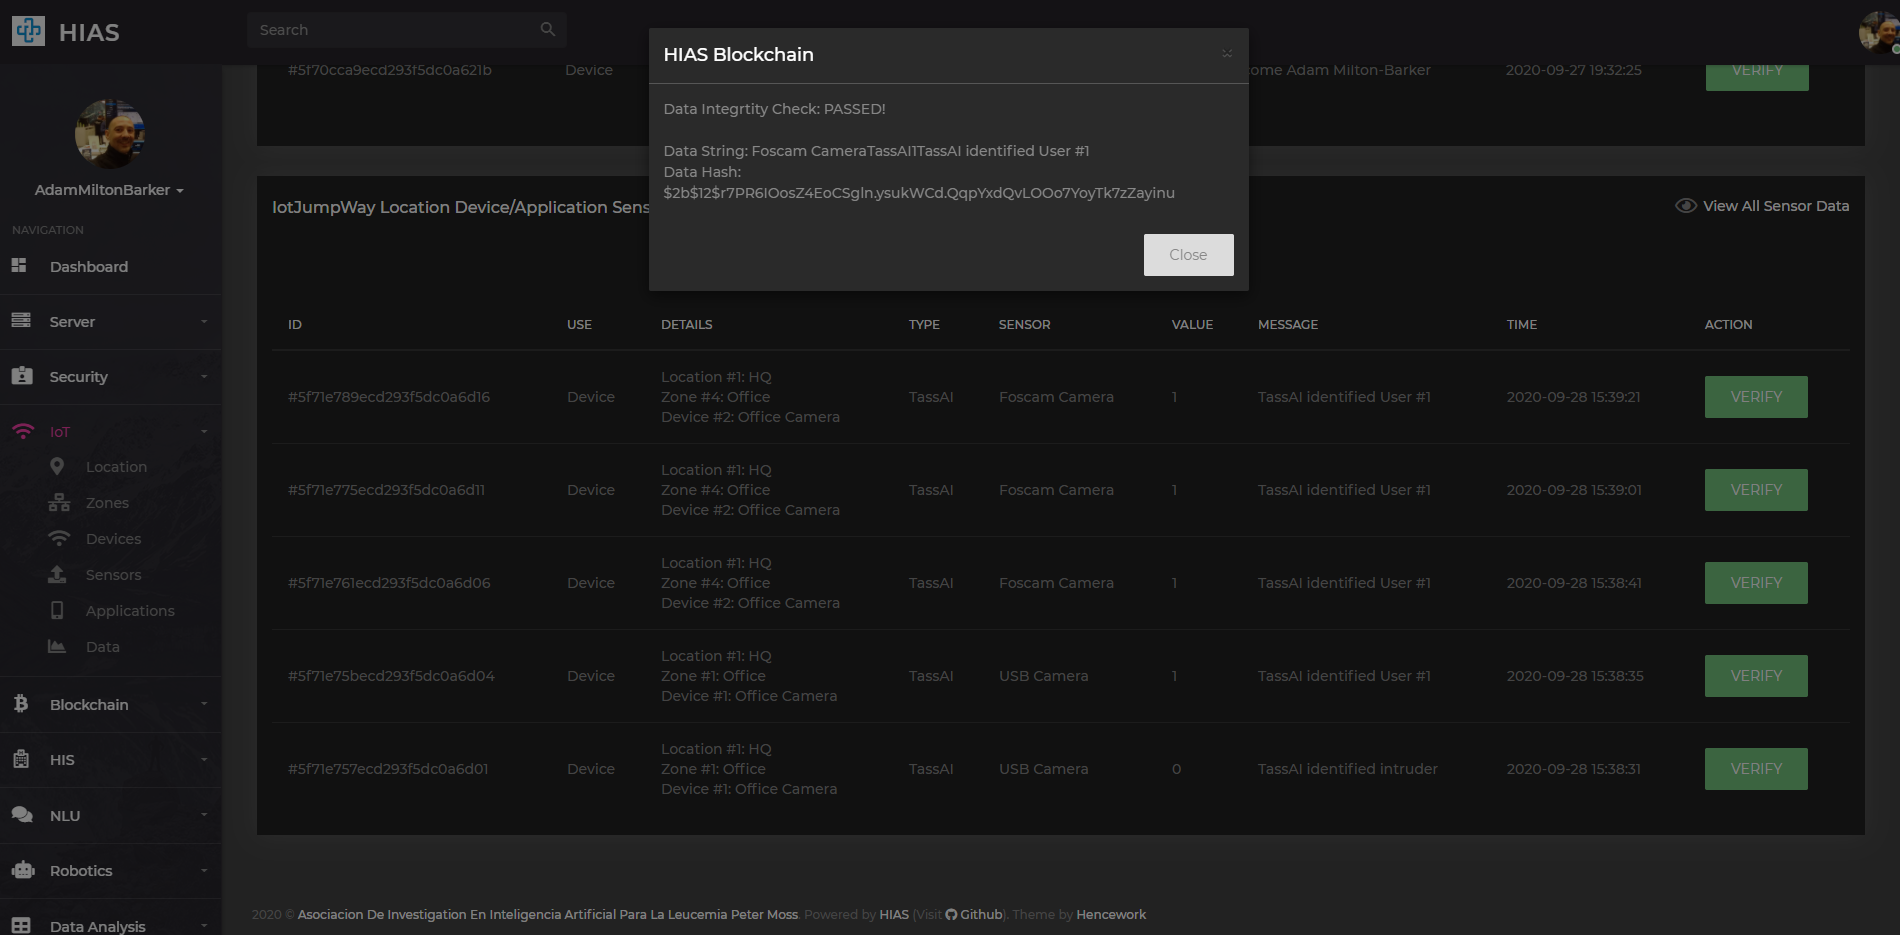
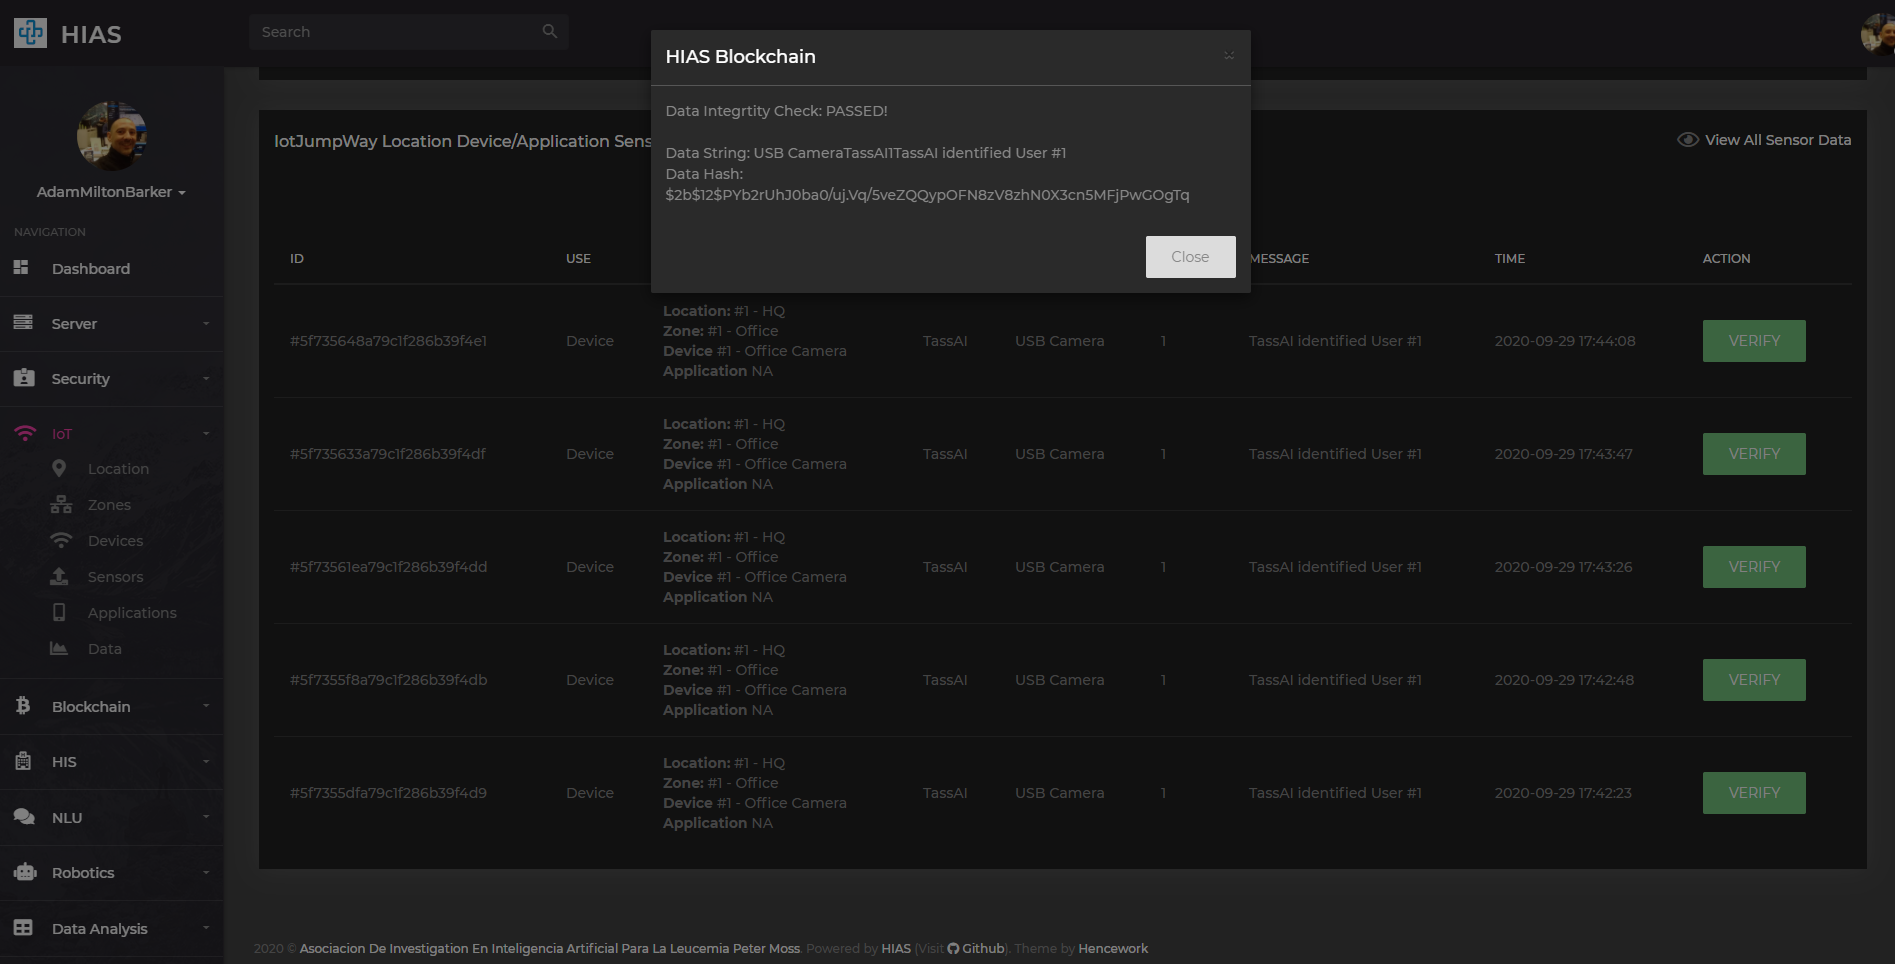
0.0.0 NCS1 USB updates

diff --git a/UP2/NCS1/USBCam/Classes/CamRead.py b/UP2/NCS1/USBCam/Classes/CamRead.py
@@ -62,6 +62,8 @@ class CamRead(Thread):
 		time1 = 0
 		time2 = 0
 
+		self.publishes = [None] * (len(self.TassAI.NCS1.encoded) + 1)
+
 		while True:
 			time.sleep(0.05)
 			try:
@@ -100,13 +102,26 @@ class CamRead(Thread):
 						else:
 							mesg = "TassAI identified intruder"
 
-						# Send iotJumpWay notification
-						self.iot.channelPub("Sensors", {
-							"Type": "TassAI",
-							"Sensor": "Foscam Camera",
-							"Value": known,
-							"Message": mesg
-						})
+						# If iotJumpWay publish for user is in past
+						if (self.publishes[int(known)] is None or (self.publishes[int(known)] + (1 * 20)) < time.time()):
+							# Update publish time for user
+							self.publishes[int(known)] = time.time()
+
+							# Send iotJumpWay notification
+							self.iot.channelPub("Sensors", {
+								"Type": "TassAI",
+								"Sensor": "USB Camera",
+								"Value": known,
+								"Message": mesg
+							})
+
+							# Send iotJumpWay notification
+							self.iot.channelPub("Cameras", {
+								"Type": "TassAI",
+								"Sensor": "USB Camera",
+								"Value": known,
+								"Message": mesg
+							})
 
 						# Draws facial landmarks
 						for (x, y) in coordsi:

diff --git a/UP2/NCS1/USBCam/Classes/TassAI.py b/UP2/NCS1/USBCam/Classes/TassAI.py
@@ -1,16 +1,17 @@
-############################################################################################
+######################################################################################################
 #
-# Repository:    HIAS TassAI
-# Project:       NCS1 USB Camera Security System
+# Organization:  Asociacion De Investigacion En Inteligencia Artificial Para La Leucemia Peter Moss
+# Project:       UP2 NCS1 Facial Recognition USB Security System
 #
 # Author:        Adam Milton-Barker (AdamMiltonBarker.com)
+#
 
 # Title:         TassAI Class
 # Description:   TassAI NCS1 USB Camera Security System class.
 # License:       MIT License
-# Last Modified: 2020-08-27
+# Last Modified: 2020-09-28
 #
-############################################################################################
+######################################################################################################
 
 import cv2
 
@@ -43,8 +44,6 @@ class TassAI():
 		""" Connects to the USB camera. """
 
 		self.camera = OpenCV(self.Helpers.confs["Camera"]["Id"])
-
-		self.Helpers.logger.info("Connected To Camera")
 
 	def ncs(self):
 		""" Configures NCS1. """

diff --git a/UP2/NCS1/USBCam/Classes/OpenCV.py b/UP2/NCS1/USBCam/Classes/OpenCV.py
@@ -47,7 +47,7 @@ class OpenCV():
 
 		self.Helpers.logger.info("Connecting to USB camera.")
 		cap = cv2.VideoCapture(stream)
-		self.Helpers.logger.info("Connected to Foscam.")
+		self.Helpers.logger.info("Connected to USB Camera.")
 		run = True
 
 		while run:

diff --git a/UP2/NCS1/USBCam/README.md b/UP2/NCS1/USBCam/README.md
@@ -152,16 +152,16 @@ Using the ls command in your home directory should show you the following.
   TassAI
 ```
 
-Navigate to **TassAI/UP2/NCS1/Standard/USBCam** directory, this is your project root directory for this tutorial.
+Navigate to **TassAI/UP2/NCS1/USBCam** directory, this is your project root directory for this tutorial.
 
 ### Developer Forks
 Developers from the Github community that would like to contribute to the development of this project should first create a fork, and clone that repository. For detailed information please view the [CONTRIBUTING](../../../CONTRIBUTING.md "CONTRIBUTING") guide. You should pull the latest code from the development branch.
 
 ```
-  git clone -b "0.2.0" https://github.com/LeukemiaAiResearch/TassAI.git
+  git clone -b "0.1.0" https://github.com/LeukemiaAiResearch/TassAI.git
 ```
 
-The **-b "0.2.0"** parameter ensures you get the code from the latest master branch. Before using the below command please check our latest master branch in the button at the top of the project README.
+The **-b "0.1.0"** parameter ensures you get the code from the latest master branch. Before using the below command please check our latest master branch in the button at the top of the project README.
 
 ## Install Dependencies
 Now you will install the required dependencies. [Setup.sh](Setup.sh "Setup.sh")is an executable shell script that will do the following:
@@ -261,42 +261,75 @@ To make sure that your server is responding correctly use the following command:
 You should see the following output:
 
 ```
-2020-09-28 12:57:25,783 - Camera - INFO - Helpers class initialization complete.
-2020-09-28 12:57:25,784 - iotJumpWay - INFO - Helpers class initialization complete.
-2020-09-28 12:57:25,784 - iotJumpWay - INFO - Initiating Local iotJumpWay Device.
-2020-09-28 12:57:25,785 - iotJumpWay - INFO - JumpWayMQTT Device Initiated.
-2020-09-28 12:57:25,785 - iotJumpWay - INFO - Initiating Local iotJumpWay Device Connection.
-2020-09-28 12:57:25,811 - iotJumpWay - INFO - Local iotJumpWay Device Connection Initiated.
-2020-09-28 12:57:25,813 - Sockets - INFO - Helpers class initialization complete.
-2020-09-28 12:57:25,813 - Sockets - INFO - Socket Helper Class initialization complete.
-2020-09-28 12:57:25,814 - Camera - INFO - Camera Class initialization complete.
-2020-09-28 12:57:25,818 - Sockets - INFO - Subscribed to socket: tcp://localhost:8181
-2020-09-28 12:57:25,820 - TassAI - INFO - Helpers class initialization complete.
-2020-09-28 12:57:25,824 - TassAI - INFO - TassAI class initialized.
-2020-09-28 12:57:25,824 - Camera - INFO - Camera server started on ###.###.#.##:8080
-2020-09-28 12:57:25,826 - OpenCV - INFO - Helpers class initialization complete.
-2020-09-28 12:57:25,834 - OpenCV - INFO - OpenCV class initialized.
-2020-09-28 12:57:25,835 - TassAI - INFO - Connected To Camera
-2020-09-28 12:57:25,836 - TassAI - INFO - Loading the model from '/home/up2b/TassAI/UP2/NCS1/Camera/Model/face-detection-retail-0004.xml'
-2020-09-28 12:57:25,836 - OpenCV - INFO - Connecting to Camera.
-2020-09-28 12:57:25,858 - TassAI - INFO - Model loaded
-2020-09-28 12:57:25,869 - iotJumpWay - INFO - Local iotJumpWay Device Connection Successful.
-2020-09-28 12:57:25,868 - TassAI - INFO - Loading the model from '/home/up2b/TassAI/UP2/NCS1/Camera/Model/landmarks-regression-retail-0009.xml'
-2020-09-28 12:57:25,870 - iotJumpWay - INFO - rc: 0
-2020-09-28 12:57:25,884 - TassAI - INFO - Model loaded
-2020-09-28 12:57:25,884 - iotJumpWay - INFO - Published to Device Status 1/Devices/4/2/Status
-2020-09-28 12:57:25,885 - TassAI - INFO - Loading the model from '/home/up2b/TassAI/UP2/NCS1/Camera/Model/face-reidentification-retail-0095.xml'
-2020-09-28 12:57:25,886 - iotJumpWay - INFO - -- Published to Device channel
-2020-09-28 12:57:25,955 - TassAI - INFO - Model loaded
-2020-09-28 12:57:27,384 - TassAI - INFO - Models loaded
-WARNING:root:File with the same name already exists at /home/up2b/TassAI/UP2/NCS1/Camera/Model/Data/Known. So it won't be stored.
-WARNING:root:Not found faces on the image '/home/up2b/TassAI/UP2/NCS1/Camera/Model/Data/Known/1-0.jpg'
-2020-09-28 12:57:27,798 - TassAI - INFO - Database is built, registered 1 identities
-INFO:TassAI:Database is built, registered 1 identities
-2020-09-28 12:57:27,799 - Sockets - INFO - Started & connected to socket server: tcp://localhost:8181
-INFO:Sockets:Started & connected to socket server: tcp://localhost:8181
-2020-09-28 12:57:29,926 - OpenCV - INFO - Connected to Camera.
-
+2020-09-29 15:04:24,954 - Camera - INFO - Helpers class initialization complete.
+2020-09-29 15:04:24,955 - iotJumpWay - INFO - Helpers class initialization complete.
+2020-09-29 15:04:24,955 - iotJumpWay - INFO - Initiating Local iotJumpWay Device.
+2020-09-29 15:04:24,956 - iotJumpWay - INFO - JumpWayMQTT Device Initiated.
+2020-09-29 15:04:24,956 - iotJumpWay - INFO - Initiating Local iotJumpWay Device Connection.
+2020-09-29 15:04:24,996 - iotJumpWay - INFO - Local iotJumpWay Device Connection Initiated.
+2020-09-29 15:04:24,998 - iotJumpWay - INFO - -- Subscribed to Device Commands Channel
+2020-09-29 15:04:25,000 - Sockets - INFO - Helpers class initialization complete.
+2020-09-29 15:04:25,001 - Sockets - INFO - Socket Helper Class initialization complete.
+2020-09-29 15:04:25,001 - Camera - INFO - Camera Class initialization complete.
+2020-09-29 15:04:25,005 - Sockets - INFO - Subscribed to socket: tcp://localhost:8181
+2020-09-29 15:04:25,007 - iotJumpWay - INFO - Local iotJumpWay Device Connection Successful.
+2020-09-29 15:04:25,008 - TassAI - INFO - Helpers class initialization complete.
+2020-09-29 15:04:25,007 - iotJumpWay - INFO - rc: 0
+2020-09-29 15:04:25,010 - iotJumpWay - INFO - Published to Device Status 1/Devices/1/1/Status
+2020-09-29 15:04:25,009 - TassAI - INFO - TassAI class initialized.
+2020-09-29 15:04:25,011 - iotJumpWay - INFO - -- Published to Device channel
+2020-09-29 15:04:25,011 - Camera - INFO - Camera server started on ###.###.#.##:8080
+2020-09-29 15:04:25,013 - OpenCV - INFO - Helpers class initialization complete.
+2020-09-29 15:04:25,016 - iotJumpWay - INFO - JumpWayMQTT Subscription: 1
+2020-09-29 15:04:25,023 - OpenCV - INFO - OpenCV class initialized.
+2020-09-29 15:04:25,024 - OpenCV - INFO - Connecting to USB camera.
+2020-09-29 15:04:25,026 - NCS1 - INFO - Helpers class initialization complete.
+2020-09-29 15:04:25,368 - OpenCV - INFO - Connected to Camera.
+2020-09-29 15:04:28,828 - NCS1 - INFO - Connected to Neural Compute Stick 1
+2020-09-29 15:04:28,871 - NCS1 - INFO - Loaded NCS1 graph
+2020-09-29 15:04:29,187 - NCS1 - INFO - Known data preprocessed!
+2020-09-29 15:04:29,187 - NCS1 - INFO - NCS1 class initialized.
+2020-09-29 15:04:29,188 - TassAI - INFO - NCS1 configured.
+2020-09-29 15:04:29,189 - Sockets - INFO - Started & connected to socket server: tcp://localhost:8181
+2020-09-29 15:04:32,668 - NCS1 - INFO - Calculated Match: 0.6489086151123047
+2020-09-29 15:04:32,815 - NCS1 - INFO - TassAI identified User #1
+2020-09-29 15:04:32,816 - iotJumpWay - INFO - -- Published to Device channel
+2020-09-29 15:04:33,206 - NCS1 - INFO - Calculated Match: 0.6780565977096558
+2020-09-29 15:04:33,207 - NCS1 - INFO - TassAI identified User #1
+2020-09-29 15:04:33,210 - iotJumpWay - INFO - -- Published to Device channel
+2020-09-29 15:04:33,605 - NCS1 - INFO - Calculated Match: 0.7129222750663757
+2020-09-29 15:04:33,605 - NCS1 - INFO - TassAI identified User #1
+2020-09-29 15:04:33,606 - iotJumpWay - INFO - -- Published to Device channel
+2020-09-29 15:04:33,999 - NCS1 - INFO - Calculated Match: 0.698941707611084
+2020-09-29 15:04:33,999 - NCS1 - INFO - TassAI identified User #1
+2020-09-29 15:04:34,000 - iotJumpWay - INFO - -- Published to Device channel
+2020-09-29 15:04:34,393 - NCS1 - INFO - Calculated Match: 0.6882005929946899
+2020-09-29 15:04:34,394 - NCS1 - INFO - TassAI identified User #1
+2020-09-29 15:04:34,395 - iotJumpWay - INFO - -- Published to Device channel
+2020-09-29 15:04:34,788 - NCS1 - INFO - Calculated Match: 0.7014083862304688
+2020-09-29 15:04:34,789 - NCS1 - INFO - TassAI identified User #1
+2020-09-29 15:04:34,789 - iotJumpWay - INFO - -- Published to Device channel
+2020-09-29 15:04:35,186 - NCS1 - INFO - Calculated Match: 0.7462751865386963
+2020-09-29 15:04:35,187 - NCS1 - INFO - TassAI identified User #1
+2020-09-29 15:04:35,188 - iotJumpWay - INFO - -- Published to Device channel
+2020-09-29 15:04:35,581 - NCS1 - INFO - Calculated Match: 0.7502866387367249
+2020-09-29 15:04:35,582 - NCS1 - INFO - TassAI identified User #1
+2020-09-29 15:04:35,583 - iotJumpWay - INFO - -- Published to Device channel
+2020-09-29 15:04:35,976 - NCS1 - INFO - Calculated Match: 0.7378405928611755
+2020-09-29 15:04:35,977 - NCS1 - INFO - TassAI identified User #1
+2020-09-29 15:04:35,978 - iotJumpWay - INFO - -- Published to Device channel
+2020-09-29 15:04:36,370 - NCS1 - INFO - Calculated Match: 0.7412561774253845
+2020-09-29 15:04:36,370 - NCS1 - INFO - TassAI identified User #1
+2020-09-29 15:04:36,371 - iotJumpWay - INFO - -- Published to Device channel
+2020-09-29 15:04:36,764 - NCS1 - INFO - Calculated Match: 0.6631295680999756
+2020-09-29 15:04:36,765 - NCS1 - INFO - TassAI identified User #1
+2020-09-29 15:04:36,766 - iotJumpWay - INFO - -- Published to Device channel
+2020-09-29 15:04:37,158 - NCS1 - INFO - Calculated Match: 0.7121732234954834
+2020-09-29 15:04:37,158 - NCS1 - INFO - TassAI identified User #1
+2020-09-29 15:04:37,159 - iotJumpWay - INFO - -- Published to Device channel
+2020-09-29 15:04:37,552 - NCS1 - INFO - Calculated Match: 0.7222686409950256
+2020-09-29 15:04:37,552 - NCS1 - INFO - TassAI identified User #1
+2020-09-29 15:04:37,553 - iotJumpWay - INFO - -- Published to Device channel
 ```
 
 Now visit URL replacing the values as expected: **http://YourUp2Ip:YourPort/YourStreamFile**.
@@ -324,13 +357,13 @@ Next add the following code to the file, replacing **YourUser** with the usernam
 
 ```
 [Unit]
-Description=TassAI USB Camera Security System
+Description=TassAI UP2 NCS1 Facial Recognition USB Security System
 After=multi-user.target
 
 [Service]
 User=YourUser
 Type=simple
-ExecStart=/usr/bin/python3 /home/YourUser/TassAI/UP2/NCS1/Standard/USBCam/Camera.py
+ExecStart=/usr/bin/python3 /home/YourUser/TassAI/UP2/NCS1/USBCam/Camera.py
 
 [Install]
 WantedBy=multi-user.target
@@ -353,7 +386,7 @@ sudo systemctl status Camera.service
 You should see the following output.
 
 ```
-● api.service - TassAI USB Camera Security System
+● api.service - TassAI UP2 NCS1 Facial Recognition USB Security System
    Loaded: loaded (/lib/systemd/system/Camera.service; enabled; vendor preset: enabled)
    Active: active (running) since Mon 2020-08-24 19:45:31 CEST; 4s ago
  Main PID: 3481 (python3)
@@ -361,7 +394,7 @@ You should see the following output.
    Memory: 46.3M
       CPU: 2.878s
    CGroup: /system.slice/Camera.service
-           └─3481 /usr/bin/python3 /home/YourUser/TassAI/UP2/NCS1/Standard/USBCam/Camera.py
+           └─3481 /usr/bin/python3 /home/YourUser/TassAI/UP2/NCS1/USBCam/Camera.py
 ```
 
 Your system will now start every time you boot up your UP2. You can use the following commands to manage your service in the future.
